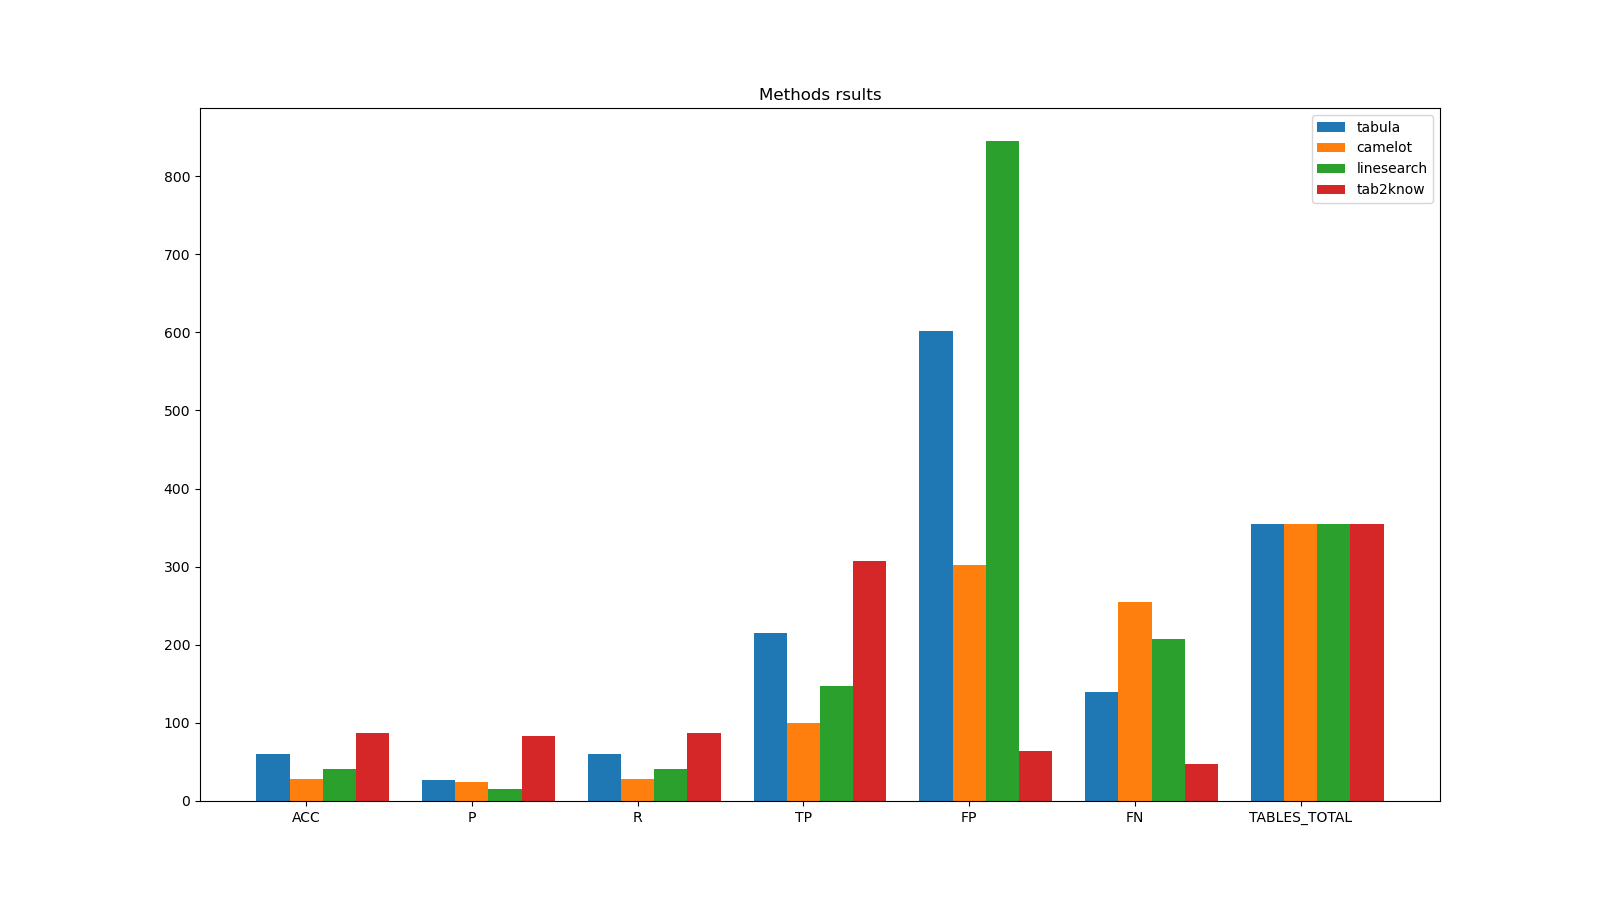
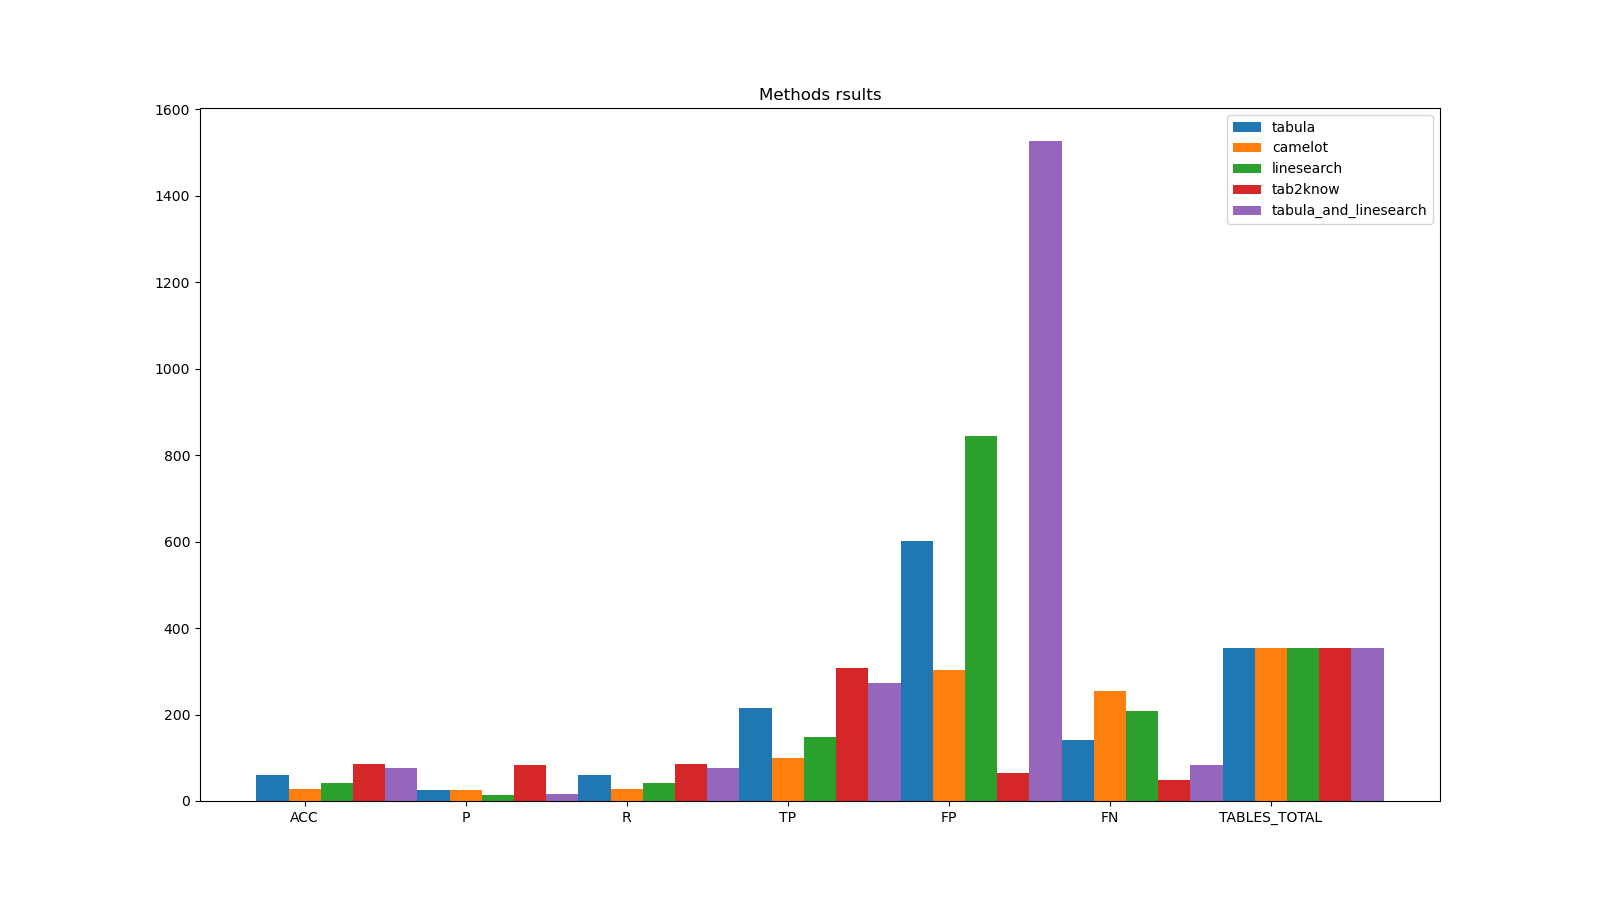
Joined tabula and linesearch for better results

diff --git a/core/extractor.py b/core/extractor.py
@@ -5,10 +5,18 @@ import logging
 
 
 def extraction_methods_names() -> list:
-    return ['tabula', 'camelot', 'linesearch', 'tab2know']
+    return ['tabula', 'camelot', 'linesearch', 'tabula_and_linesearch', 'tab2know']
 
 
 def method_from_name(name: str):
+
+    def tabula_and_linesearch(filename) -> list:
+        tabs1 = ex_tabula(filename)
+        tabs2 = ex_linesearch(filename)
+        # merge and remove duplicates
+        tabs = tabs1 + tabs2
+        return tabs
+
     if name == 'tabula':
         return ex_tabula
     elif name == 'camelot':
@@ -17,23 +25,22 @@ def method_from_name(name: str):
         raise Exception("MEthod not implemented here")
     elif name == 'linesearch':
         return ex_linesearch
-    elif name == 'all':
-        return extract_tables_all
+    elif name == 'tabula_and_linesearch':
+        return extract_tables_joined
     else:
         raise Exception("Wrong method given: {}".format(name))
 
 
-def extract_tables_all(filename: str):
+def extract_tables_joined(filename: str):
     tables = []
-    for method_name in extraction_methods_names():
-        method_to_use = method_from_name(method_name)
-        tables_out = method_to_use(filename)
-        # remove_double_tables
-        tables += tables_out
+    tabs1 = ex_tabula(filename)
+    tabs2 = ex_linesearch(filename)
+    # merge and remove duplicates
+    tables = [ *tabs1, *tabs2]
     return tables
 
 
-def extract_tables(filename:str, method_used='all'):
+def extract_tables(filename:str, method_used='tabula_and_linesearch'):
     method_to_use = method_from_name(method_used)
     tables = method_to_use(filename)
     return tables

diff --git a/analysis/pdf2info_tests/show_results_of_method.py b/analysis/pdf2info_tests/show_results_of_method.py
@@ -12,6 +12,6 @@ def create_plots_results(method_used:str, show_fig:bool=True):
 
 
 if __name__ == '__main__':
-    method_used = 'camelot'
+    method_used = 'tabula_and_linesearch'
     create_plots_results(method_used, show_fig=True)
 
